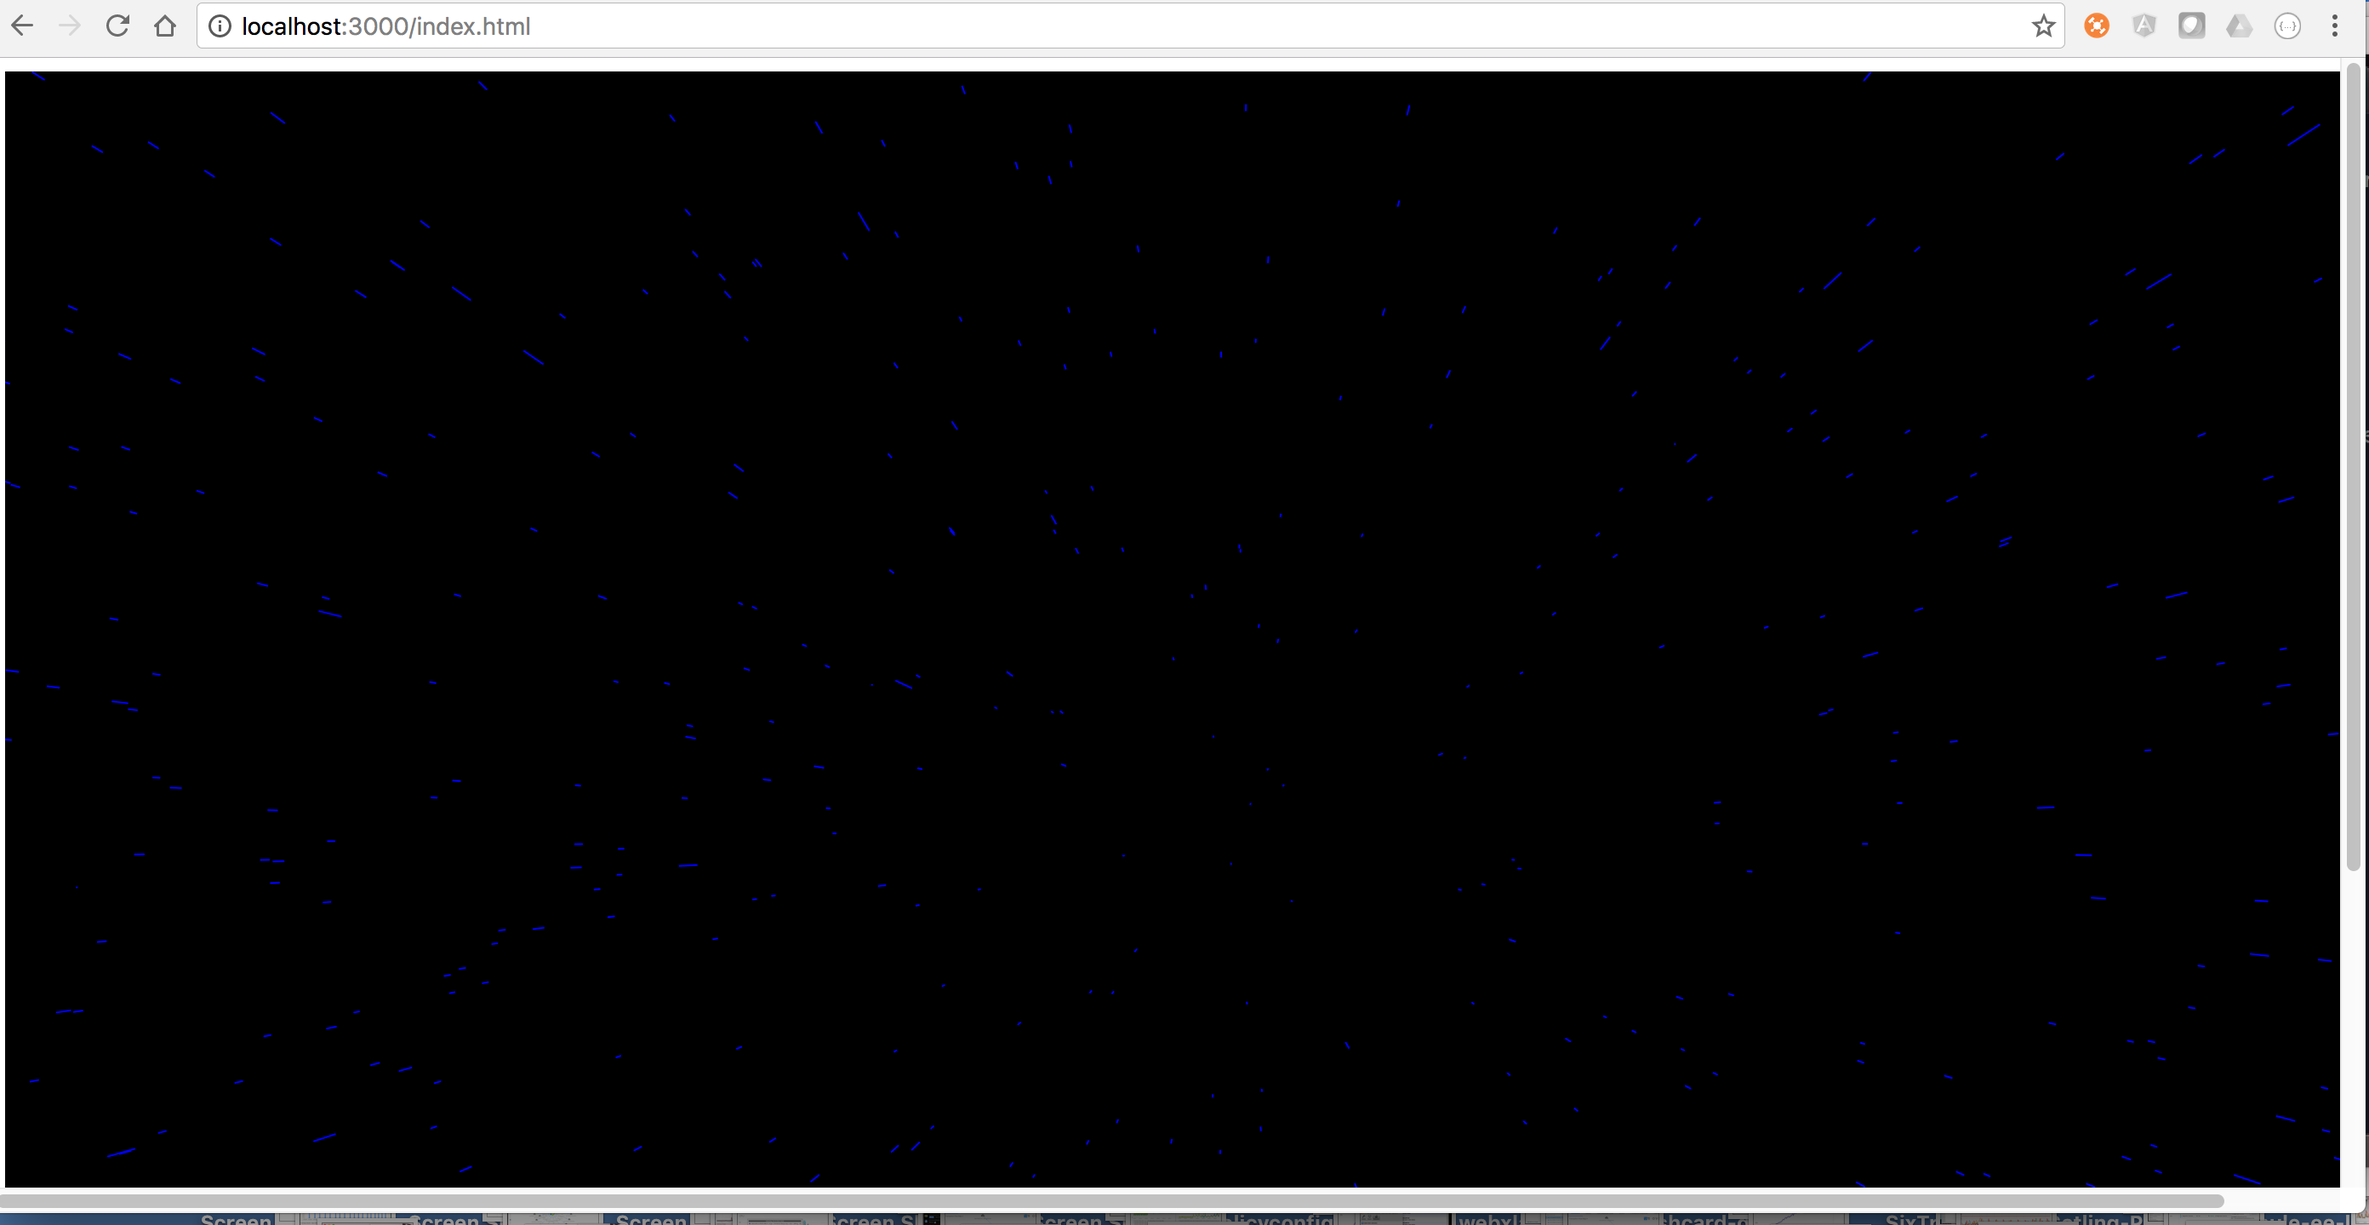
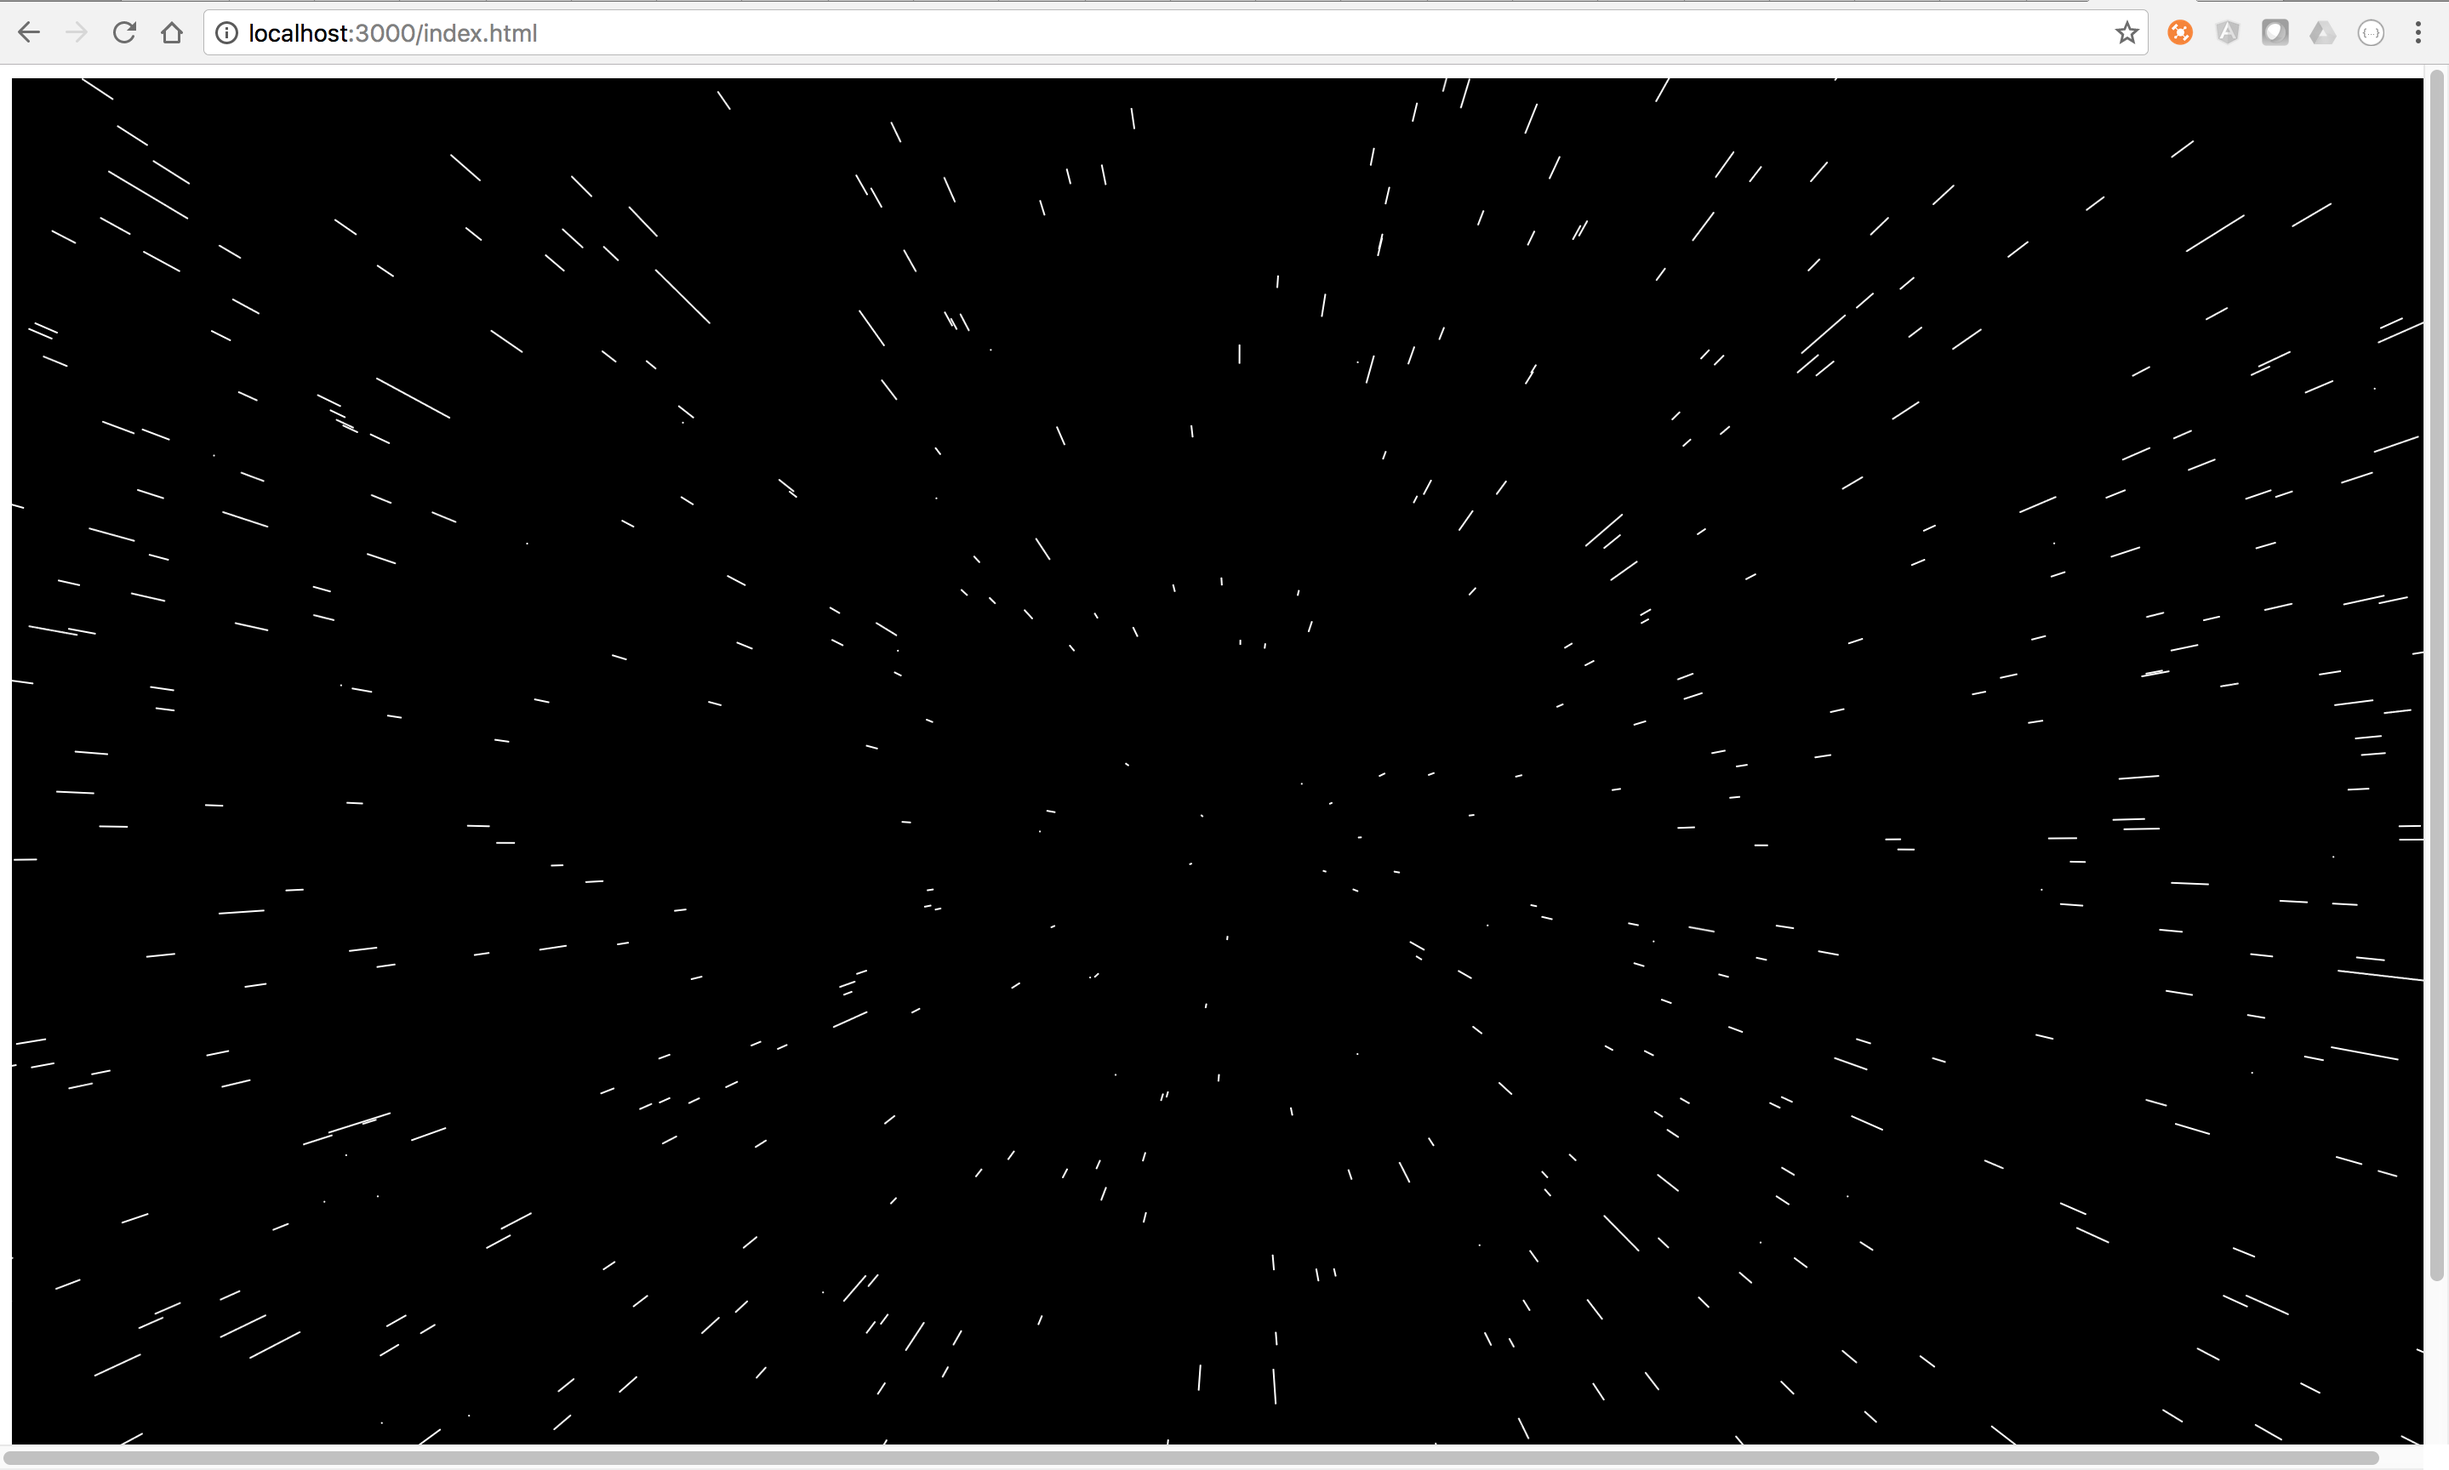
updates

diff --git a/starfield/public/star.js b/starfield/public/star.js
@@ -30,7 +30,7 @@ function Star(){
 		var px = map( this.x / this.pz, 0, 1,0,width);
 		var py = map( this.y / this.pz, 0, 1,0,height);
 		this.pz = this.z;
-		stroke(0,0,255);
+		stroke(255,255,255);
 		line(px,py,sx,sy);
 	}
 
